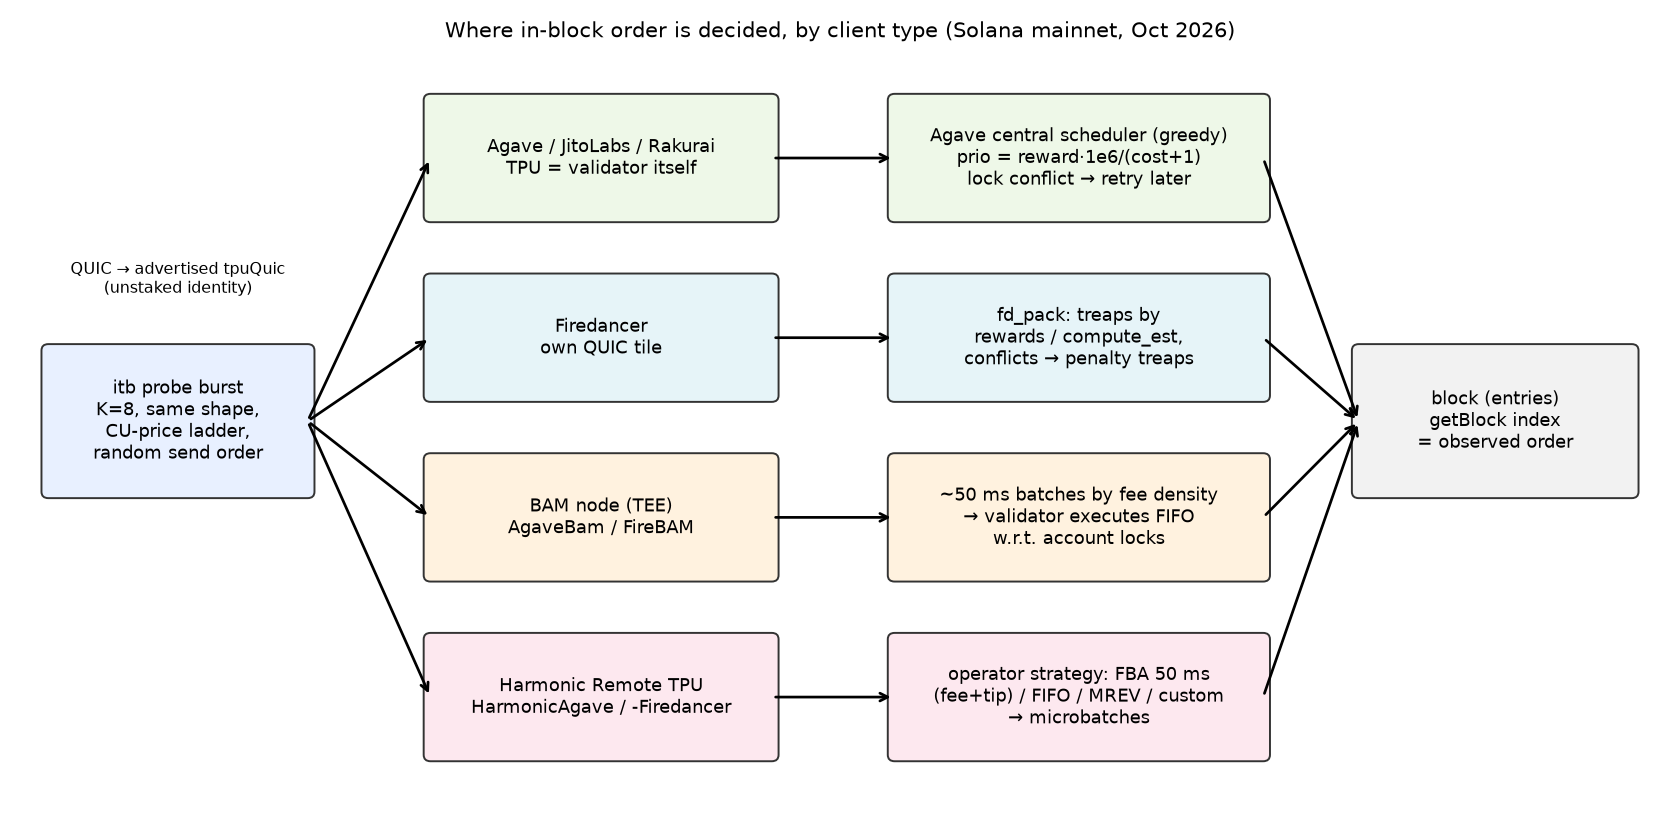
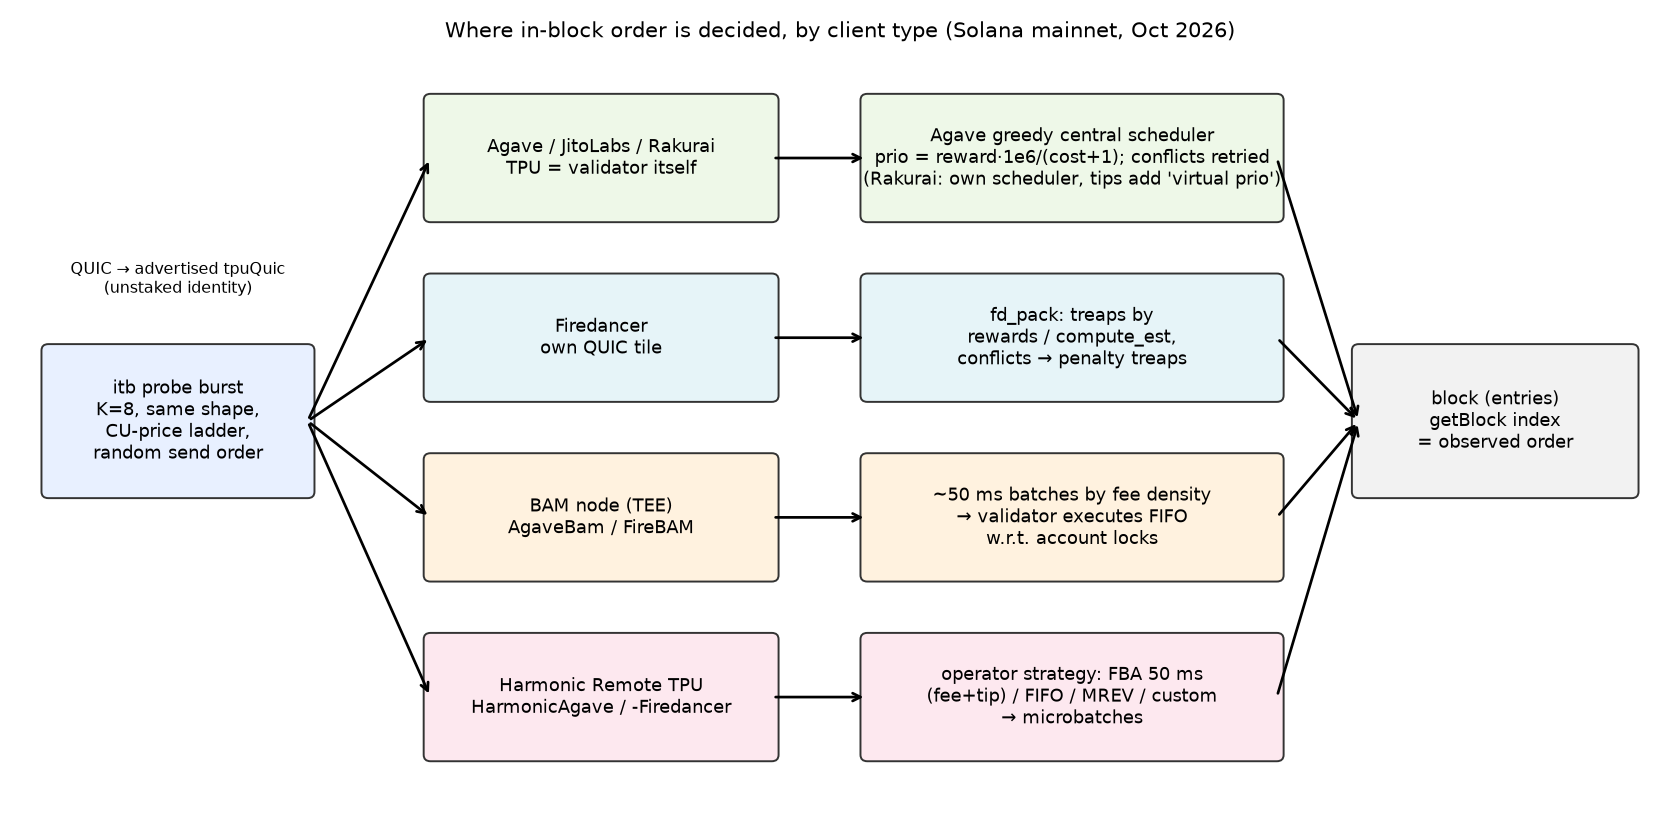
diagram

diff --git a/README.md b/README.md
@@ -44,6 +44,8 @@ Without Docker: `pip install -r requirements.txt && python -m itb --data data al
 
 ## 2. The experiment in one picture
 
+![where order is decided](docs/tx-path.png)
+
 ```mermaid
 sequenceDiagram
     autonumber
